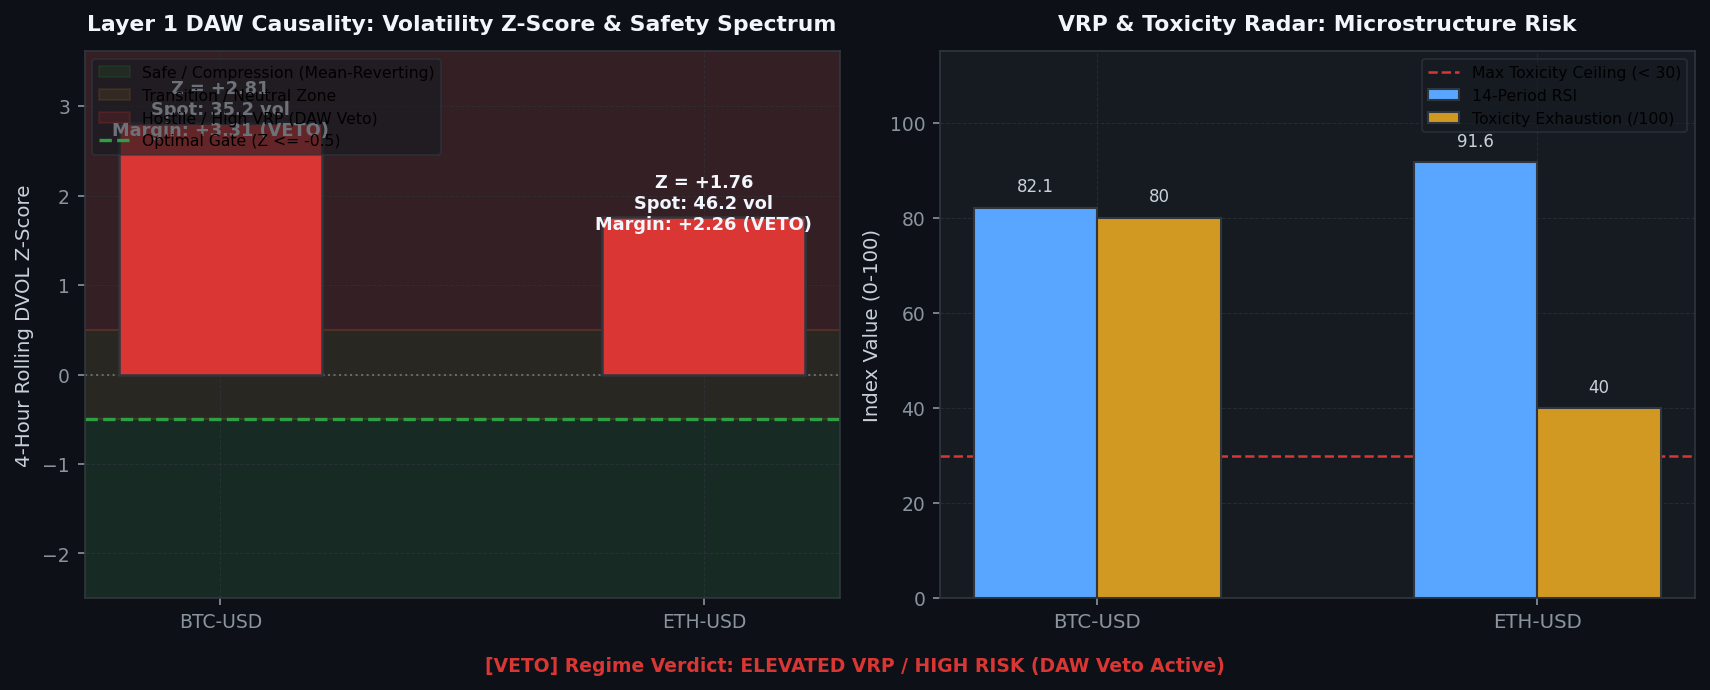
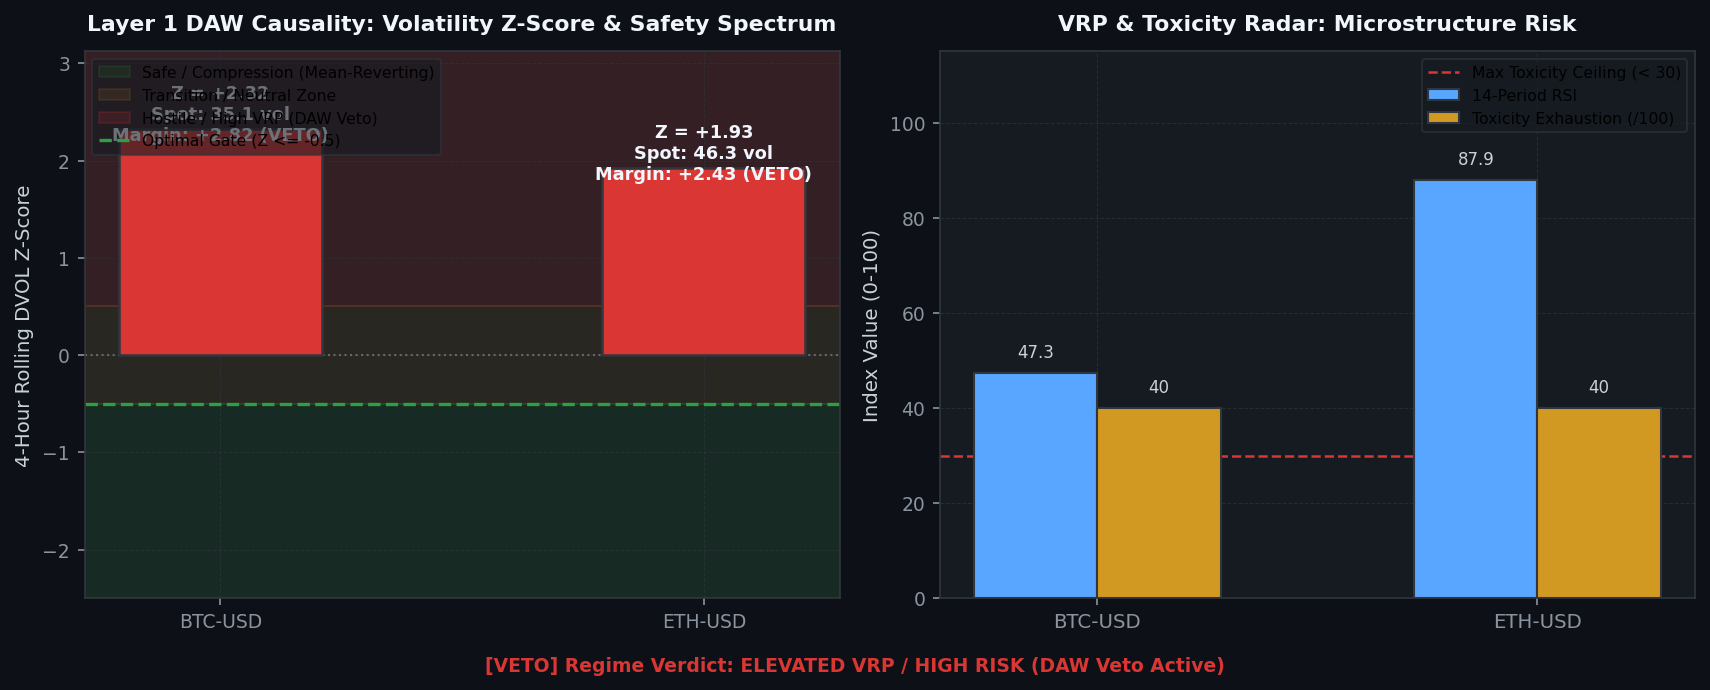
[coinbase] Hourly Status & Visual Intelligence Update: 2026-08-18 11:05:44

diff --git a/coinbase/data/hourly_status_report.md b/coinbase/data/hourly_status_report.md
@@ -3,7 +3,7 @@ layout: default
 ---
 
 # 🛡 Unified Trading System Hourly Status & Visual Intelligence
-> **Report Generated**: `2026-08-18 11:00:03 AM PDT (2026-08-18 18:00:03 UTC)`  
+> **Report Generated**: `2026-08-18 11:05:27 AM PDT (2026-08-18 18:05:27 UTC)`  
 > **System Health**: **🟡 DEGRADED / RESTRICTED** | **Win Rate**: `0.0%` | **Completed Trades**: `0`
 
 
@@ -15,13 +15,13 @@ Real-time Deribit implied volatility (DVOL) proxy tracking against mathematicall
 
 | Symbol | Proxy Oracle | Live Z-Score | Optimal Limit (YSP) | Safety Margin | Live VRP | Optimal VRP (YSP) | DAW Safety Verdict |
 | :--- | :--- | :--- | :--- | :--- | :--- | :--- | :--- |
-| `AVAX-USD` | DVOL_BTC | **+2.87** | **-0.50** | **+3.37** | **+11.52** | 5.0 | 🔴 DAW VETOED |
-| `ETH-USD` | DVOL_ETH | **+1.60** | **-0.50** | **+2.10** | **+22.50** | 5.0 | 🔴 DAW VETOED |
-| `ADA-USD` | DVOL_BTC | **+2.87** | **-0.50** | **+3.37** | **+11.52** | 5.0 | 🔴 DAW VETOED |
-| `DOGE-USD` | DVOL_BTC | **+2.87** | **-0.50** | **+3.37** | **+11.52** | 5.0 | 🔴 DAW VETOED |
-| `BTC-USD` | DVOL_BTC | **+2.87** | **-0.50** | **+3.37** | **+11.52** | 5.0 | 🔴 DAW VETOED |
-| `LINK-USD` | DVOL_BTC | **+2.87** | **-0.50** | **+3.37** | **+11.52** | 5.0 | 🔴 DAW VETOED |
-| `SOL-USD` | DVOL_BTC | **+2.87** | **-0.50** | **+3.37** | **+11.52** | 5.0 | 🔴 DAW VETOED |
+| `AVAX-USD` | DVOL_BTC | **+2.32** | **-0.50** | **+2.82** | **+11.52** | 5.0 | 🔴 DAW VETOED |
+| `ETH-USD` | DVOL_ETH | **+1.93** | **-0.50** | **+2.43** | **+22.70** | 5.0 | 🔴 DAW VETOED |
+| `ADA-USD` | DVOL_BTC | **+2.32** | **-0.50** | **+2.82** | **+11.52** | 5.0 | 🔴 DAW VETOED |
+| `DOGE-USD` | DVOL_BTC | **+2.32** | **-0.50** | **+2.82** | **+11.52** | 5.0 | 🔴 DAW VETOED |
+| `BTC-USD` | DVOL_BTC | **+2.32** | **-0.50** | **+2.82** | **+11.52** | 5.0 | 🔴 DAW VETOED |
+| `LINK-USD` | DVOL_BTC | **+2.32** | **-0.50** | **+2.82** | **+11.52** | 5.0 | 🔴 DAW VETOED |
+| `SOL-USD` | DVOL_BTC | **+2.32** | **-0.50** | **+2.82** | **+11.52** | 5.0 | 🔴 DAW VETOED |
 
 
 
@@ -37,12 +37,12 @@ We hereby certify that the mission-critical algorithmic data assets uploaded by 
 
 | Status | Data Asset | Freshness / State | Details / Timestamp |
 | :---: | :--- | :--- | :--- |
-| ✅ | **Go-List JSON** | Fresh (123.86h old) | 08-13 07:08 |
-| ✅ | **TimesFM Forecasts** | Fresh (0.68h old) | 08-18 10:19 |
-| ✅ | **Holding Times config** | Fresh (16.25h old) | 08-17 18:45 |
-| ✅ | **BTC DVOL Cache** | Fresh (0.00h old) | 08-18 11:00 |
-| ✅ | **ETH DVOL Cache** | Fresh (0.00h old) | 08-18 11:00 |
-| ✅ | **Live Trading Telemetry** | Fresh (0.00h old) | 08-18 11:00 |
+| ✅ | **Go-List JSON** | Fresh (123.95h old) | 08-13 07:08 |
+| ✅ | **TimesFM Forecasts** | Fresh (0.77h old) | 08-18 10:19 |
+| ✅ | **Holding Times config** | Fresh (16.34h old) | 08-17 18:45 |
+| ✅ | **BTC DVOL Cache** | Fresh (0.01h old) | 08-18 11:05 |
+| ✅ | **ETH DVOL Cache** | Fresh (0.00h old) | 08-18 11:05 |
+| ✅ | **Live Trading Telemetry** | Fresh (0.01h old) | 08-18 11:05 |
 
 <br>
 
@@ -81,14 +81,14 @@ Live balance sheet and open maker liquidity positions from Coinbase CDP.
 ## 4. 🤖 Foundation Model MLOps & Pipeline Orchestration
 Weekly Algorithmic Mega Cap selection, Zero-shot multi-step forward return forecasts, and VSTEF parameter grid search status.
 
-- **TimesFM Forecast DB**: 🟢 Updated 0.7h ago (2026-08-18 10:19 AM PDT)
+- **TimesFM Forecast DB**: 🟢 Updated 0.8h ago (2026-08-18 10:19 AM PDT)
 - **Last Weekly VSTEF Optimization**: `2026-08-17 06:44:25 PM PDT`
-- **Next Scheduled VSTEF Run**: `2026-08-23 07:00:00 PM PDT (Monday 02:00 UTC)` (Countdown: **128.0h (5d 7h 59m)**)
+- **Next Scheduled VSTEF Run**: `2026-08-23 07:00:00 PM PDT (Monday 02:00 UTC)` (Countdown: **127.9h (5d 7h 54m)**)
 - **Promoted Parameter Gates**: $Z_{DVOL} \le -0.5$ | Holding Horizon $= 12\text{h}$
 
 ### Algorithmic Mega Cap Selection
 - **Last Run (Confirmation)**: `Never`
-- **Next Scheduled Run**: `2026-08-23 06:00:00 PM PDT (Monday 01:00 UTC)` (Countdown: **127.0h (5d 6h 59m)**)
+- **Next Scheduled Run**: `2026-08-23 06:00:00 PM PDT (Monday 01:00 UTC)` (Countdown: **126.9h (5d 6h 54m)**)
 - **Selected Mega Cap Universe**: `Could not fetch active universe from EC2`
 
 
@@ -102,19 +102,19 @@ Visualizing the impact of the VSTEF (Volatility-Synchronized Stop-Tightening Exe
 ## 5. 🖥 Multi-Node Infrastructure & Watchdog Matrix
 ```text
 ================================================================================
-   🛡  SFGK FUNNEL GUARDIAN WATCHDOG (HFT ONLY) |  05:59:59 PM
-   CPU:   0.2%  |  MEM:   6.3% (14.4GB / 15.4GB Free)
+   🛡  SFGK FUNNEL GUARDIAN WATCHDOG (HFT ONLY) |  06:05:26 PM
+   CPU:   4.3%  |  MEM:   5.5% (14.6GB / 15.4GB Free)
 ================================================================================
 SERVICE              | PID      | STATUS          | RESTARTS | INFO
 --------------------------------------------------------------------------------
 L3 Consumer          | 3522061  | RUNNING         | -        | Continuous Websocket Feed
-Trader AVAX-USD      | 3559309  | COOL-DOWN       | 126      | Next run in 9.9s
-Trader ETH-USD       | 3559310  | COOL-DOWN       | 126      | Next run in 9.9s
-Trader ADA-USD       | 3559311  | COOL-DOWN       | 126      | Next run in 9.9s
-Trader DOGE-USD      | 3559312  | COOL-DOWN       | 126      | Next run in 9.9s
-Trader BTC-USD       | 3559313  | COOL-DOWN       | 126      | Next run in 9.9s
-Trader LINK-USD      | 3559314  | COOL-DOWN       | 126      | Next run in 9.9s
-Trader SOL-USD       | 3559315  | COOL-DOWN       | 126      | Next run in 9.9s
+Trader AVAX-USD      | 3564433  | COOL-DOWN       | 142      | Next run in 9.9s
+Trader ETH-USD       | 3564434  | COOL-DOWN       | 142      | Next run in 9.9s
+Trader ADA-USD       | 3564435  | COOL-DOWN       | 142      | Next run in 9.9s
+Trader DOGE-USD      | 3564436  | COOL-DOWN       | 142      | Next run in 9.9s
+Trader BTC-USD       | 3564437  | COOL-DOWN       | 142      | Next run in 9.9s
+Trader LINK-USD      | 3564438  | COOL-DOWN       | 142      | Next run in 9.9s
+Trader SOL-USD       | 3564439  | COOL-DOWN       | 142      | Next run in 9.9s
 ================================================================================
 ```
 

diff --git a/coinbase/data/visual_intelligence.md b/coinbase/data/visual_intelligence.md
@@ -4,7 +4,7 @@ title: Visual Intelligence Gallery
 ---
 
 # 📈 Visual Intelligence Gallery
-> **Generated:** `2026-08-18 11:00:19`
+> **Generated:** `2026-08-18 11:05:44`
 > **[Return to Main Status Report](./hourly_status_report.html)**
 
 This page visualizes the internal states, market profiles, and decision criteria of the active **3-Tier Fused Decision Engine** across all layers.
